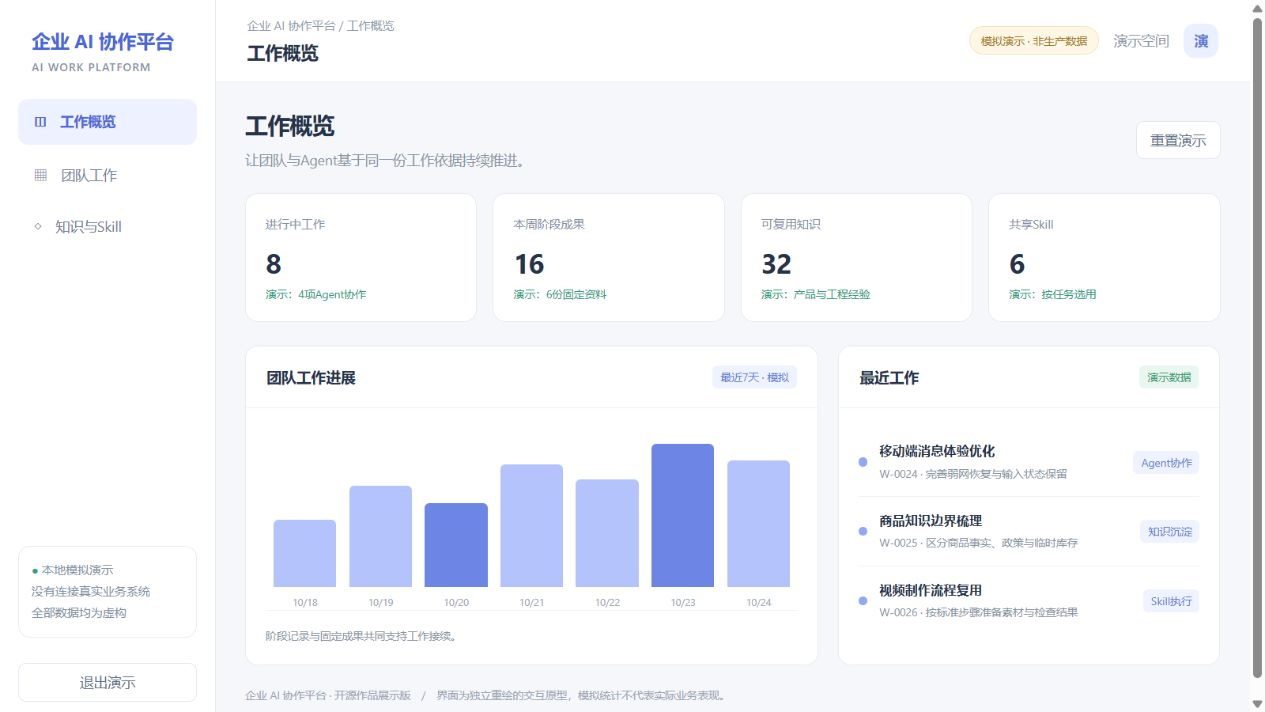
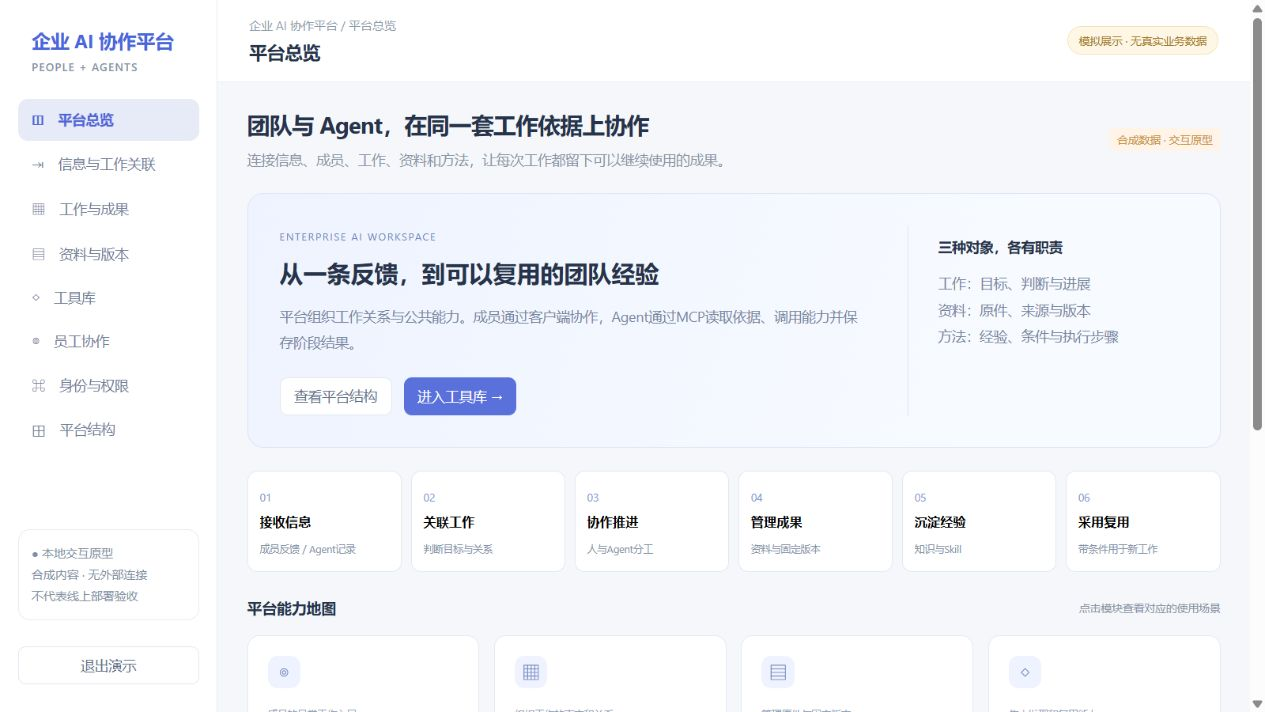
Expand platform architecture and interactive tool library showcase

diff --git a/demo/platform.js b/demo/platform.js
@@ -1,0 +1,44 @@
+// Standalone product prototype. All content below is synthetic; no backend calls.
+const $ = s => document.querySelector(s);
+const esc = s => String(s).replace(/[&<>"']/g, c => ({'&':'&amp;','<':'&lt;','>':'&gt;','"':'&quot;',"'":'&#39;'}[c]));
+const names = {overview:'平台总览',intake:'信息与工作关联',work:'工作与成果',files:'资料与版本',tools:'工具库',collaboration:'员工协作',permissions:'身份与权限',architecture:'平台结构'};
+const icons = ['◫','⇥','▦','▤','◇','◎','⌘','⊞'];
+let view='overview', category='全部', query='', chosen='knowledge', linked=false, role='成员', version=2;
+const adopted = new Set();
+const receipts=[];
+const modules=[
+ ['员工客户端','成员的日常工作入口','消息、通知、个人工作与资料入口；桌面、PWA及移动端相关源码。','collaboration','clients/employeeclient-desktop'],
+ ['工作与知识服务','组织工作的事实和关系','目标、阶段进展、判断、显式关联、固定成果、接续与采用。','work','modules/v8'],
+ ['资料存储服务','管理原件与固定版本','上传、读取、版本引用、授权定位、归档与生命周期。','files','modules/storage'],
+ ['工具与方法库','集中发现和复用能力','知识、HTML汇报、Skill、账号元信息、素材解析与硬件记录。','tools','modules/tools'],
+ ['身份权限服务','控制谁可以做什么','成员身份、项目资格、授权范围、凭据交付和权限撤销。','permissions','modules/hub/apps/hufu'],
+ ['MCP接入层','让Agent使用平台能力','目录发现、帮助契约、成员身份传递、调用与回执查询。','architecture','modules/hub/apps/mcp'],
+ ['共享执行器','持续任务和异常接续','任务租约、有限重试、执行结果和事件投递；独立核对状态。','architecture','modules/worker/apps/worker'],
+ ['扩展资源与生成适配','按需连接外部能力','云资源、图像/视频、画廊和音频等接口；可用性需逐项验证。','architecture','modules/tools/src']
+];
+const tools=[
+ {id:'knowledge',type:'知识',name:'弱网场景下的输入与恢复规则',summary:'将交互反馈整理成带条件的产品知识，供新任务读取和判断是否适用。',version:'v2',path:'modules/tools/components/accounts/knowledge-library.mjs',input:'问题场景、正文、来源、适用条件、限制、当前revision',output:'知识条目、固定版本、来源和修订状态',scope:'移动端消息体验；不适用于所有表单与离线业务。',steps:['识别用户操作与中断位置','保留已输入内容，区分发送中与失败','验证重连后状态，不自动重复发送'],kind:'采用知识'},
+ {id:'skill',type:'Skill',name:'软件开发与验收工作流',summary:'把稳定的方法组织为可复用步骤，明确输入、检查点、异常与结果。',version:'v1',path:'skills/develop-software/SKILL.md',input:'真实目标、已有代码、允许范围和验收条件',output:'代码修改、相关验证及实际完成边界',scope:'软件开发类任务；导入包不等于安装，更不等于已经执行。',steps:['读取需求与现有实现','确定改动和验收范围','实现并检查异常路径','执行相关验证','区分源码、构建与真实环境验收'],kind:'选用方法'},
+ {id:'review',type:'Skill',name:'阶段回顾与知识提炼',summary:'从阶段讨论与结果中提取有条件的经验，避免每次重复纠正同类问题。',version:'v1',path:'skills/context-to-knowledge/SKILL.md',input:'阶段记录、原始反馈、修改结果和证据范围',output:'知识候选、适用条件与仍需验证的问题',scope:'不是自动把所有讨论结论写成通用规则。',steps:['区分用户要求、实现结果和未验证推断','识别可跨任务复用的经验','补充来源与限制','人工或Agent判断后保存'],kind:'选用方法'},
+ {id:'html',type:'HTML汇报',name:'移动端体验验收汇报',summary:'集中保存可阅读的阶段报告，并与工作和固定成果关联。',version:'v3',path:'modules/tools/components/accounts/html-library.mjs',input:'报告标题、HTML正文、所属项目与来源',output:'报告条目、固定原件与保存回执',scope:'原型只预览元信息，不执行导入的HTML。',steps:['确认报告对应的工作阶段','保留固定版本','将成果引用追加到工作'],kind:'预览记录'},
+ {id:'account',type:'账号资料',name:'测试服务账号元信息',summary:'供Agent定位服务用途与负责人；不在目录中返回密码、Cookie或受保护备注。',version:'v1',path:'modules/tools/components/accounts',input:'当前成员身份与允许查询的账号范围',output:'服务名称、用途、负责人等非敏感元信息',scope:'敏感取用仍需对应授权；演示中没有真实账号。',steps:['先确认用途与范围','只读取非敏感资料','凭据交付走独立授权通道'],kind:'预览记录'},
+ {id:'assets',type:'素材解析',name:'视频制作素材清单',summary:'对素材来源和选中项进行整理，供后续制作工作选用。',version:'v1',path:'modules/tools/connectors/workspace-tools-mcp',input:'素材来源、选中项及明确用途',output:'素材元信息与候选清单，不是本机下载成功证明',scope:'本页不下载素材；来源授权与实际下载由使用方核对。',steps:['解析来源与候选项','确认选中内容','下载后核对实际文件'],kind:'预览记录'},
+ {id:'hardware',type:'硬件记录',name:'测试设备配置参考',summary:'保存设备和采购相关记录，便于团队按场景查找。',version:'v1',path:'modules/tools/components/accounts/hardware.mjs',input:'设备类型、使用场景与已有记录',output:'设备元信息与采购记录',scope:'记录接口不代表下单、付款或设备已交付。',steps:['按任务查看记录','核对配置适用性','真实采购独立确认'],kind:'预览记录'}
+];
+const pill=(s,c='')=>`<span class="tag ${c}">${esc(s)}</span>`;
+const button=(text,to)=>`<button class="btn" data-go="${to}">${text}</button>`;
+const head=(title,sub)=>`<div class="intro"><div><h1>${title}</h1><p>${sub}</p></div>${pill('合成数据 · 交互原型','orange')}</div>`;
+function flow(){return `<div class="process">${[['接收信息','成员反馈／Agent记录','intake'],['关联工作','判断目标与关系','work'],['协作推进','人与Agent分工','collaboration'],['管理成果','资料与固定版本','files'],['沉淀经验','知识与Skill','tools'],['采用复用','带条件用于新工作','tools']].map((x,i)=>`<button data-go="${x[2]}"><small>0${i+1}</small><strong>${x[0]}</strong><span>${x[1]}</span></button>`).join('')}</div>`;}
+function overview(){return head('团队与 Agent，在同一套工作依据上协作','连接信息、成员、工作、资料和方法，让每次工作都留下可以继续使用的成果。')+`<div class="hero"><div><span class="eyebrow">ENTERPRISE AI WORKSPACE</span><h2>从一条反馈，到可以复用的团队经验</h2><p>平台组织工作关系与公共能力。成员通过客户端协作，Agent通过MCP读取依据、调用能力并保存阶段结果。</p><div class="hero-actions">${button('查看平台结构','architecture')}${button('进入工具库 →','tools')}</div></div><div class="hero-note"><strong>三种对象，各有职责</strong><p>工作：目标、判断与进展<br>资料：原件、来源与版本<br>方法：经验、条件与执行步骤</p></div></div>`+flow()+`<div class="sectiontitle"><h2>平台能力地图</h2><p>点击模块查看对应的使用场景</p></div><div class="module-grid">${modules.map((m,i)=>`<button class="module-card" data-go="${m[3]}"><span class="module-icon">${['◎','▦','▤','◇','⌘','↗','↻','⊞'][i]}</span><small>${m[1]}</small><h2>${m[0]}</h2><p>${m[2]}</p><span class="module-link">了解这个模块 →</span></button>`).join('')}</div>`;}
+function intake(){return head('信息与工作的衔接','信息先保留来源与含义，再判断是否属于已有工作；不以主题相似代替业务关联。')+`<div class="split"><section class="card"><div class="cardhead"><h2>信息接收箱</h2>${pill('示例来源')}</div><div class="cardbody">${[['成员反馈','手机切回后，已输入的内容消失','成员通过客户端提交的体验问题'],['Agent阶段记录','已定位状态重置点，待验证重连路径','Agent主动提交的阶段摘要，不是全量对话自动捕获'],['资料引用','移动消息验收说明 v2','人工上传并选定的资料版本']].map((x,i)=>`<div class="record"><span class="source-label">${x[0]}</span><h2>${x[1]}</h2><p>${x[2]}</p>${i===0?`<button class="btn primary" id="link-info">${linked?'已关联到示例工作':'关联到示例工作'}</button>`:''}</div>`).join('')}</div></section><section class="card"><div class="cardhead"><h2>关联判断</h2>${pill('业务判断')}</div><div class="cardbody"><h3>移动端消息体验优化</h3><p>相同目标：中断后保留输入并准确恢复状态。成员反馈作为问题依据，Agent记录作为阶段进展，验收说明作为固定资料。</p><div class="hint">${linked?'反馈已在本页关联，可到“工作与成果”查看；没有写入真实服务。':'等待选择：已有工作追加记录，独立目标另建工作。'}</div><h3>进入之后怎样整理</h3><ol><li>区分反馈、判断、附件和待办。</li><li>明确来源完整程度及未知信息。</li><li>关联具体工作与固定资料。</li><li>保留下一步和需要核实的条件。</li></ol>${button('查看工作与成果 →','work')}</div></section></div>`;}
+function work(){return head('工作、过程与阶段成果','把同一目标的多轮推进组织起来，而不是把一次会话等同于一个项目。')+`<div class="board">${[['待判断','商品知识边界梳理','区分商品事实、政策与临时库存'],['推进中','移动端消息体验优化','验证弱网与前后台恢复，保留用户输入'],['已形成成果','视频制作方法整理','沉淀素材准备、处理和结果检查步骤']].map(x=>`<section class="column"><h2>${x[0]}</h2><div class="task"><strong>${x[1]}</strong><p>${x[2]}</p><footer><span>示例工作</span><span>成员＋Agent</span></footer></div></section>`).join('')}</div><section class="card detailbox"><div class="cardhead"><h2>移动端消息体验优化 · 接续视图</h2>${pill('示例阶段')}</div><div class="work-detail"><div><h3>目标与边界</h3><p>切回应用后保留用户输入；发送状态需要核对结果，不因连接恢复直接标为已发送。</p><h3>最新进展</h3><p>已整理状态变更方案，待按验收条件检查。${linked?'已关联接收箱中的成员反馈。':'接收箱中还有一条反馈待关联。'}</p><h3>未完成事项</h3><p>核对断网、重连与多次切回；保留尚未验证的情况。</p></div><div><h3>采用与固定成果</h3><p>验收说明 v1 已作为阶段依据；文件有 v2 不代表旧采用自动升级。</p><h3>本页已选用的方法</h3><p>${adopted.size?[...adopted].map(id=>esc(tools.find(x=>x.id===id).name)).join('<br>'):'尚未选用，前往工具库读取条件后采用。'}</p>${button('查找知识和方法 →','tools')}</div></div></section>`;}
+function files(){return head('资料、版本与业务采用','原件保存、版本变更和业务采用分别成立，查到新文件不等于它已成为当前工作依据。')+`<section class="card"><div class="cardhead"><h2>移动消息验收说明</h2>${pill('合成文件')}</div><div class="work-detail"><div><h3>查看版本</h3><div class="filters"><button class="btn" data-version="1">v1 · 阶段采用</button><button class="btn" data-version="2">v2 · 最新修订</button></div><h3>当前预览：v${version}</h3><p>${version===1?'验证输入保留、失败提示与人工重试。':'在v1基础上增加前后台切换、断网恢复和重复发送检查。'}</p><div class="hint">工作当前采用 v1；选择预览 v2 只改变本页视图，不修改采用关系。</div></div><div><h3>原件与引用</h3><p>所属：示例团队项目<br>来源：成员整理的验收说明<br>固定引用：demo-material / version-${version}<br>权限：按当前成员与项目范围读取</p><h3>生命周期</h3><p>保存、分类、归档和物理清理分别处理；本原型不会上传、下载或删除文件。</p></div></div></section>`;}
+function toolLibrary(){const list=tools.filter(x=>(category==='全部'||category===x.type)&&(x.name+x.summary+x.type).toLowerCase().includes(query.toLowerCase()));if(list.length&&!list.some(x=>x.id===chosen))chosen=list[0].id;const selected=tools.find(x=>x.id===chosen);return head('工具库 · 团队能力与方法的入口','先发现能力，再读契约、来源和适用条件；知识可采用，Skill可选用，执行仍需对应权限。')+`<div class="library-toolbar"><input class="search library-search" id="tool-query" aria-label="搜索工具库" placeholder="搜索知识、Skill、报告或素材" value="${esc(query)}"><label>模块 <select id="tool-category" aria-label="工具库模块">${['全部','知识','Skill','HTML汇报','账号资料','素材解析','硬件记录'].map(x=>`<option ${category===x?'selected':''}>${x}</option>`).join('')}</select></label><span>${list.length} 个合成示例</span></div><div class="library-layout"><div class="tool-grid" id="tool-results">${list.length?list.map(x=>`<button class="tool-card ${chosen===x.id?'selected':''}" data-tool="${x.id}"><div>${pill(x.type)}<span class="tool-version">${x.version}</span></div><h2>${x.name}</h2><p>${x.summary}</p><small>${adopted.has(x.id)?'✓ 已在本页选用':'查看来源、条件与输入输出 →'}</small></button>`).join(''):'<div class="card cardbody"><h2>没有匹配的示例</h2><p>试试“恢复”“工作流”或切换模块。</p></div>'}</div><aside class="card tool-detail"><div class="cardhead"><h2>条目详情</h2>${pill(selected.version)}</div><div class="cardbody">${pill(selected.type)}<h3>${selected.name}</h3><p>${selected.summary}</p><h4>适用条件与限制</h4><p>${selected.scope}</p><h4>输入 → 输出</h4><p>${selected.input}<br><span class="arrow">↓</span><br>${selected.output}</p><h4>方法／检查点</h4><ol>${selected.steps.map(s=>`<li>${s}</li>`).join('')}</ol><h4>源码对应</h4><code class="source-path">${selected.path}</code><h4>关联到示例工作</h4><p>移动端消息体验优化</p><button class="btn primary" id="adopt-tool">${selected.kind==='预览记录'?'生成示例回执':adopted.has(selected.id)?'已在本页选用':selected.kind+'到示例工作'}</button><div class="hint">${receipts.at(-1)||'这里只演示采用与回执，不安装Skill、不调用模型或外部API。'}</div></div></aside></div>`;}
+function collaboration(){return head('员工协作与工作入口','成员在客户端接收消息、查看自己的工作与资料；Agent使用MCP参与对应工作。')+`<div class="split"><section class="card"><div class="cardhead"><h2>团队通知</h2>${pill('不发送真实消息')}</div><div class="cardbody">${[['工作进展','消息体验方案已形成新阶段记录'],['资料变更','验收说明更新到v2，请判断是否采用'],['知识更新','恢复规则补充了适用范围']].map(x=>`<div class="record"><span class="source-label">${x[0]}</span><h3>${x[1]}</h3><p>示例团队空间 · 今日</p></div>`).join('')}</div></section><section class="card"><div class="cardhead"><h2>成员与Agent分工</h2></div><div class="cardbody"><h3>成员</h3><p>提出业务目标、判断优先级、补充反馈、选择采用与验收结果。</p><h3>Agent</h3><p>在授权范围内读取资料、调用工具、推进任务、保存阶段进展与待核实项。</p><h3>客户端与MCP</h3><p>是不同交互入口；共享可访问的业务依据，各自仍有消息、权限和执行边界。</p>${button('查看身份与权限 →','permissions')}</div></section></div>`;}
+function permissions(){return head('身份、项目与执行范围','可发现工具、可读取资料、可执行操作，是三个不同的判断。')+`<section class="card"><div class="cardhead"><h2>权限场景预览</h2>${pill('只切换合成角色')}</div><div class="cardbody"><label>查看角色 <select id="demo-role" aria-label="演示角色"><option ${role==='成员'?'selected':''}>成员</option><option ${role==='主管'?'selected':''}>主管</option></select></label><table><thead><tr><th>操作</th><th>范围</th><th>示例状态</th></tr></thead><tbody>${[['读取团队工作','当前可读项目','允许'],['查看账号密码','目录不返回敏感值','不开放'],['修改其他成员授权','需对应管理权限',role==='主管'?'需核对授权范围':'拒绝'],['调用外部供应商','需实际资源与用途授权','待独立授权']].map(x=>`<tr>${x.map(v=>`<td>${v}</td>`).join('')}</tr>`).join('')}</tbody></table><div class="hint">原型不签发凭据，也不修改任何权限。真实系统仍需服务端核对当前身份和操作范围。</div></div></section>`;}
+function architecture(){return head('平台整体结构','成员入口、Agent入口、业务事实与公共基础设施相互配合，独立产品按需选择接入。')+`<section class="card cardbody"><div class="architecture-entry"><span>成员 · 员工客户端</span><span>AI Agent · MCP接入</span></div><div class="architecture-center"><strong>企业工作与知识平台</strong><p>项目与工作关系 · 阶段进展 · 固定成果 · 采用与复用</p></div>${flow()}<div class="module-grid">${modules.map(m=>`<div class="module-card"><h2>${m[0]}</h2><p>${m[2]}</p><code class="source-path">${m[4]}</code></div>`).join('')}</div><div class="hint">源码快照中的模块接线、独立连接器、候选改动与线上状态分开核对。这个结构图说明职责，不证明全部部署已连通。</div></section>`;}
+const pages={overview,intake,work,files,tools:toolLibrary,collaboration,permissions,architecture};
+function render(){document.title=names[view]+' · 企业 AI 协作平台（模拟）';$('#root').innerHTML=`<div class="app"><aside class="side"><div class="brand">企业 AI 协作平台<small>PEOPLE + AGENTS</small></div><nav class="nav">${Object.keys(names).map((v,i)=>`<button data-go="${v}" class="${view===v?'active':''}">${icons[i]}　${names[v]}</button>`).join('')}</nav><div class="sidebar-note">● 本地交互原型<br>合成内容 · 无外部连接<br>不代表线上部署验收</div><button class="btn" id="logout">退出演示</button></aside><main class="main"><header class="top"><div><div class="crumb">企业 AI 协作平台 / ${names[view]}</div><strong>${names[view]}</strong></div><span class="badge">模拟展示 · 无真实业务数据</span></header><div class="content">${pages[view]()}<div class="footer">独立重绘原型 · 合成资料、成员与工作 · 不调用生产服务或执行真实任务</div><div id="live-status" role="status" class="sr-only"></div></div></main></div>`;bind();}
+function bind(){document.querySelectorAll('[data-go]').forEach(b=>b.onclick=()=>{view=b.dataset.go;render();window.scrollTo(0,0);});if($('#link-info'))$('#link-info').onclick=()=>{linked=true;render();};document.querySelectorAll('[data-version]').forEach(b=>b.onclick=()=>{version=Number(b.dataset.version);render();});document.querySelectorAll('[data-tool]').forEach(b=>b.onclick=()=>{chosen=b.dataset.tool;render();});if($('#tool-category'))$('#tool-category').onchange=e=>{category=e.target.value;render();};if($('#tool-query'))$('#tool-query').oninput=e=>{const pos=e.target.selectionStart;query=e.target.value;render();$('#tool-query').focus();$('#tool-query').setSelectionRange(pos,pos);};if($('#adopt-tool'))$('#adopt-tool').onclick=()=>{const t=tools.find(x=>x.id===chosen);if(t.kind!=='预览记录')adopted.add(t.id);receipts.push(`${esc(t.name)} ${esc(t.version)}：${t.kind==='预览记录'?'已生成本页示例回执':'已在本页关联示例工作'}。未执行真实调用。`);render();};if($('#demo-role'))$('#demo-role').onchange=e=>{role=e.target.value;render();};$('#logout').onclick=()=>{sessionStorage.removeItem('demo-hub');login();};}
+function login(){document.title='企业 AI 协作平台 · 模拟登录';$('#root').innerHTML=`<section class="login"><div class="login-art"><div class="brand">企业 AI 协作平台</div><h1>把团队工作，<br>连接成可复用的经验。</h1><p>信息 · 工作 · 资料 · 知识 · 工具 · Skill</p></div><div class="login-form"><form id="login"><span class="badge">独立交互原型 · 合成数据</span><h1>进入平台展示</h1><p>演示登录只切换浏览器状态。</p><label for="user">演示账号</label><input id="user" value="demo"><label for="password">演示口令</label><input id="password" type="password" value="demo-only"><button class="btn primary">登录演示</button><p class="notice">demo / demo-only<br>不连接真实身份、模型、文件或公司服务。</p><p id="error" class="error" role="alert"></p></form></div></section>`;$('#login').onsubmit=e=>{e.preventDefault();if($('#user').value==='demo'&&$('#password').value==='demo-only'){sessionStorage.setItem('demo-hub','yes');render();}else $('#error').textContent='请输入演示账号 demo 与口令 demo-only。';};}
+if(sessionStorage.getItem('demo-hub'))render();else login();

diff --git a/demo/platform.css b/demo/platform.css
@@ -1,0 +1,1 @@
+.side{width:220px;position:sticky;top:0;height:100vh}.nav{gap:3px}.nav button{padding:11px 14px}.hero{display:grid;grid-template-columns:2.1fr 1fr;gap:40px;padding:32px;border:1px solid #dce5f6;background:linear-gradient(110deg,#eef3ff,#f7faff 75%);border-radius:16px;margin-bottom:23px}.eyebrow{color:#6e87bd;font-size:10px;letter-spacing:1.5px}.hero h2{font-size:24px;line-height:1.5;margin:12px 0}.hero p{color:#77869f;line-height:1.9;max-width:660px}.hero-note{border-left:1px solid #dbe3f2;padding:12px 0 12px 30px}.hero-note strong{display:block;margin-bottom:14px}.hero-actions{display:flex;gap:12px;margin-top:22px}.hero-actions .btn:last-child{background:#5a71dc;color:white;border:0}.process{display:grid;grid-template-columns:repeat(6,1fr);gap:9px;margin:0 0 27px}.process button{background:white;border:1px solid #e2e8f3;border-radius:10px;text-align:left;padding:15px 12px}.process small{font-size:11px;color:#8198cf}.process strong{display:block;font-size:13px;margin:8px 0}.process span{font-size:10px;color:#8593aa}.sectiontitle{display:flex;justify-content:space-between;align-items:center;margin-bottom:17px}.sectiontitle p{font-size:11px}.module-grid{display:grid;grid-template-columns:repeat(4,minmax(0,1fr));gap:15px}.module-card{background:white;border:1px solid #e3e9f3;border-radius:12px;text-align:left;padding:20px;min-width:0}.module-card h2{margin:12px 0;font-size:15px}.module-card p{font-size:12px;line-height:1.9}.module-icon{display:block;width:33px;height:33px;border-radius:10px;background:#eff3ff;color:#647bc5;text-align:center;line-height:33px;font-size:19px;margin-bottom:15px}.module-card small{font-size:10px;color:#91a0b7}.module-link{display:block;font-size:11px;color:#6780cb;margin-top:16px}.split{display:grid;grid-template-columns:1.3fr 1fr;gap:22px}.record{padding:19px 0;border-bottom:1px solid #edf0f6}.record:first-child{padding-top:0}.record:last-child{border:0}.record h2,.record h3{font-size:15px;margin:12px 0}.record p{font-size:12px}.record button{margin-top:14px}.source-label{color:#7087c5;background:#f0f4ff;font-size:10px;padding:4px 8px;border-radius:4px}h3{font-size:15px;margin:20px 0 12px}h4{font-size:12px;margin:22px 0 9px}li{font-size:12px;color:#78879e;line-height:1.9;margin-bottom:7px}ol{padding-left:19px}.hint{margin-top:20px;font-size:11px}.work-detail{display:grid;grid-template-columns:1fr 1fr;gap:40px;padding:24px}.work-detail p{font-size:12px}.filters{display:flex;gap:10px}.library-toolbar{display:flex;align-items:center;gap:17px;margin-bottom:21px}.library-search{margin:0;width:min(440px,50%);background:white}.library-toolbar label{font-size:12px;color:#8390a5}.library-toolbar>span{font-size:11px;color:#8c98ac;margin-left:auto}select{font:inherit;border:1px solid #e1e7f0;border-radius:7px;padding:9px;color:#5f718d;background:white;margin-left:8px}.library-layout{display:grid;grid-template-columns:minmax(0,1.7fr) minmax(280px,1fr);gap:20px;align-items:start}.tool-grid{display:grid;grid-template-columns:repeat(2,minmax(0,1fr));gap:15px}.tool-card{background:white;border:1px solid #e1e7f1;border-radius:12px;text-align:left;padding:22px;min-height:208px}.tool-card.selected{border-color:#8095df;box-shadow:0 0 0 2px #edf1ff}.tool-card h2{font-size:14px;line-height:1.7;margin:18px 0 10px}.tool-card p{font-size:12px;line-height:1.9}.tool-card small{display:block;color:#7990c2;margin-top:21px;font-size:10px}.tool-version{float:right;font-size:11px;color:#8a99b0}.tool-detail{position:sticky;top:18px}.tool-detail h3{line-height:1.8}.tool-detail p{font-size:12px;line-height:1.9}.tool-detail .primary{margin-top:16px;width:100%}.source-path{display:block;overflow-wrap:anywhere;font:10px/1.8 ui-monospace,monospace;color:#8c9ab0;background:#f7f9fd;padding:10px;border-radius:6px;margin-top:10px}.arrow{color:#96a5c0}.architecture-entry{display:flex;justify-content:center;gap:30px;margin:12px 0 20px}.architecture-entry span{background:#f1f4ff;color:#6b80b6;border:1px solid #e2e8f8;padding:14px 30px;border-radius:10px;font-size:12px}.architecture-center{background:#eaf0fd;border:1px solid #dbe5f8;border-radius:12px;text-align:center;padding:24px;margin-bottom:23px}.architecture-center strong{font-size:20px}.architecture-center p{font-size:12px;margin-top:10px}.architecture-center+.process{margin-bottom:23px}table{width:100%;border-collapse:collapse;margin-top:25px;font-size:12px;text-align:left}th{color:#8b97ac;font-weight:500;background:#f8faff}td,th{padding:18px 16px;border-bottom:1px solid #edf1f7}.sr-only{position:absolute;width:1px;height:1px;overflow:hidden;clip:rect(0,0,0,0)}button:focus-visible,input:focus-visible,select:focus-visible{outline:3px solid #b8c6f8;outline-offset:2px}@media(max-width:1150px){.module-grid{grid-template-columns:repeat(2,minmax(0,1fr))}.process{grid-template-columns:repeat(3,1fr)}.hero{grid-template-columns:1fr}.hero-note{display:none}.library-layout{grid-template-columns:1fr}.tool-detail{position:static}.side{width:190px}.brand{font-size:17px!important}.hero h2{font-size:21px}}@media(max-width:750px){.side{width:150px;padding:20px 10px}.nav button{font-size:11px;padding:12px 8px}.split,.work-detail{grid-template-columns:1fr}.hero{padding:20px}.module-grid,.tool-grid{grid-template-columns:1fr}.intro{align-items:start;gap:15px}.intro .tag{display:none}.right{display:none}.library-toolbar{flex-wrap:wrap}.library-search{width:100%}.process{grid-template-columns:repeat(2,1fr)}.architecture-entry{gap:8px}.architecture-entry span{padding:12px}.top .badge{font-size:9px}.brand{font-size:15px!important}.sidebar-note{display:none}h1{font-size:20px}.top{padding:0 18px}.content{padding:20px}.board{grid-template-columns:1fr}}

diff --git a/demo/index.html b/demo/index.html
@@ -1,1 +1,1 @@
-<!doctype html><html lang="zh-CN"><head><meta charset="UTF-8"><meta name="viewport" content="width=device-width, initial-scale=1"><title>本地模拟演示</title><link rel="stylesheet" href="style.css"></head><body data-kind="hub"><div id="root"></div><script src="app.js"></script></body></html>
+<!doctype html><html lang="zh-CN"><head><meta charset="UTF-8"><meta name="viewport" content="width=device-width, initial-scale=1"><title>企业 AI 协作平台 · 模拟展示</title><link rel="stylesheet" href="style.css"><link rel="stylesheet" href="platform.css"></head><body data-kind="hub"><div id="root"></div><script src="platform.js"></script></body></html>

diff --git a/docs/platform-architecture.md b/docs/platform-architecture.md
@@ -1,0 +1,90 @@
+# 平台结构、对象关系与源码导航
+
+这是面向团队与Agent的企业工作与知识平台。工作看板只是其中一个视图；平台同时提供成员入口、身份权限、资料原件、工作关系、工具与方法复用、执行接续和公共资源能力。
+
+本文按公开源码及随包手册解释职责。不同日期的手册、源码候选和独立快照不等于本次实时部署验证。
+
+## 整体结构
+
+```mermaid
+flowchart TB
+    Person["团队成员"] --> Client["员工客户端：桌面 / PWA / 移动"]
+    Agent["AI Agent"] --> MCP["MCP：发现、契约与受控调用"]
+    Client --> Identity["成员身份与项目授权"]
+    MCP --> Identity
+    Identity --> Work["工作与知识：目标、阶段、关系、采用"]
+    Identity --> Storage["资料存储：原件、固定版本、生命周期"]
+    Identity --> Library["工具库：知识、报告、Skill与资源元信息"]
+    Work --> Storage
+    Work --> Library
+    Library --> Reuse["判断条件后采用或选用"]
+    Reuse --> Work
+    MCP --> Worker["持续任务：租约、回执与异常恢复"]
+    Worker --> Work
+    MCP --> External["云资源及生成能力适配"]
+```
+
+箭头表示协作、调用或引用，不代表所有业务都经过单一网关，也不代表整个过程自动发生。独立产品可以只接入身份、存储或某项公共能力，保留自己的业务数据库与部署方式。
+
+## 信息接收：什么进来、怎样整理、支持什么行动
+
+| 输入 | 可核对的来源／入口 | 整理与关联 | 后续行动 |
+| --- | --- | --- | --- |
+| 业务目标、体验反馈和问题说明 | 成员提交、项目反馈入口、Agent主动保存 | 区分目标、反馈、判断和待核实项；判断属于已有工作还是独立目标 | 调整方案、确定下一步或建立独立工作 |
+| 阶段进展与判断依据 | 工作保存／阶段提交接口 | 追加阶段，保留边界、关系与未完成事项 | 跨成员、跨会话继续推进 |
+| 文档、报告和附件 | 资料上传、HTML汇报与显式引用 | 原件放资料服务，工作记录引用固定版本 | 阅读原文、核对依据、验收阶段成果 |
+| 可复用经验与方法 | 人或Agent整理后写入知识／导入Skill | 保留来源、条件、限制、修订身份和版本 | 检索、阅读、判断采用或选用 |
+| 素材等外部信息 | 对应解析适配器 | 保留来源与选中清单 | 按授权下载、处理与使用 |
+
+完整原文、摘要、可见片段和未知覆盖范围要区分。平台没有因此自动捕获全部客户端对话，也不宣称默认采集微信或所有业务系统的信息。
+
+相同主题不是相同工作。同一目标沿原工作追加，独立目标另建工作，直接关系需要依据。参见 [工作手册](../modules/hub/packages/handbook/current/v8-guide.md) 与 [关联判断方法](../skills/v8-work-link-judgment/SKILL.md)。
+
+## 平台对象与数据职责
+
+| 对象 | 管什么 | 与什么区分 |
+| --- | --- | --- |
+| 项目 | 业务范围、成员资格、可见性 | 项目可见性不自动赋予服务器权限 |
+| 工作 | 持续目标、状态、阶段、关系和责任 | 一次对话不必建立一个新项目 |
+| 阶段记录 | 实际进展、判断依据、纠正、待办和下一步 | 提交完成声明不证明外部部署或付款完成 |
+| 资料与固定版本 | 原件、来源、版本和读取资格 | 最新修订不自动替换原有采用 |
+| 采用关系 | 使用哪个固定成果、用途与依据 | 保存、检索、阅读、采用分别成立 |
+| 知识 | 条件、经验、来源、限制和证据状态 | 整理过不代表普遍适用或已验证 |
+| Skill | 方法包、输入输出、执行步骤和检查点 | 导入不等于安装或执行成功 |
+| 操作与回执 | 请求标识、身份、进度和确定结果 | 生成内容不等于外部动作已经发生 |
+
+## 各结构与源码
+
+| 结构 | 业务职责和主要实现 | 阅读入口 |
+| --- | --- | --- |
+| 员工客户端 | 消息、通知、个人工作、资料入口，桌面／PWA／Android相关实现；普通聊天状态独立于工作事件投递 | [桌面](../clients/employeeclient-desktop)、[移动](../clients/employeeclient-mobile)、[成员工作手册](../modules/hub/packages/handbook/current/member-work.md) |
+| 工作与知识服务 | 项目、阶段、上下文接续、显式关联和采用；接续包保留判断、边界、固定成果及下一步 | [V8独立快照](../modules/v8)、[共享基线服务](../modules/hub/apps/v8)、[工作手册](../modules/hub/packages/handbook/current/v8-guide.md) |
+| 资料存储 | 上传、授权定位、原件、版本及生命周期；分类、归档、主读位置和清理分别处理 | [存储快照](../modules/storage)、[资料服务](../modules/hub/apps/mem)、[存储手册](../modules/hub/packages/handbook/current/material-storage.md) |
+| 工具库与方法库 | 六类业务模块、知识维护、方法包、报告和资源元信息，网页与MCP两类使用入口 | [工具库详解](tools-library.md)、[业务模块](../modules/tools/components/accounts)、[Skill集合](../skills) |
+| 身份与授权 | 成员、项目资格、授权撤销、凭据交付；发现工具、读取资料和执行操作分别检查 | [身份服务](../modules/hub/apps/hufu)、[授权模块](../modules/hub/packages/authorization) |
+| MCP接入 | 能力发现、契约、身份传递及受控调用；不把目录可见当作任意执行权限 | [MCP服务](../modules/hub/apps/mcp)、[网关](../modules/hub/packages/mcp-edge/source)、[独立TOOLS连接器](../modules/tools/connectors/workspace-tools-mcp) |
+| 共享执行器 | 持续任务、租约、重试、结果与事件投递；未知结果按原请求接续核对 | [Worker快照](../modules/worker)、[实现与候选说明](../modules/hub/apps/worker) |
+| 工程／数据库／资源 | 项目范围内工程执行、结构查询、共享资源适配与恢复，不自动开放整机权限 | [工程手册](../modules/hub/packages/handbook/current/project-engineering.md)、[数据库权限](../modules/hub/packages/handbook/current/database-permissions.md)、[运行说明](../modules/hub/packages/handbook/current/operations.md) |
+| 团队运行 | 任务、提案、成员回执、积分及现金应付、项目反馈、成员工作事实与理解、手册和发布档案 | [任务与回执](../modules/hub/packages/handbook/current/task-points.md)、[项目反馈](../modules/hub/packages/handbook/current/project-feedback.md)、[总索引](../modules/hub/packages/handbook/current/function-index.md) |
+| 生成与其他扩展 | 云资源、视觉生成、画廊及音频等适配；供应商资格、预算、部署与最终结果分别验证 | [适配源码](../modules/tools/src)、[集成边界](../modules/hub/packages/handbook/current/integrations.md) |
+
+任务账目、应付记录和真实付款仍需区分。公开原型不展示真实人员、薪资、账号密码或业务记录。源码存在也不代表所有外部供应商已授权并可用。
+
+## 示例：怎样从一次反馈积累到下一次工作
+
+以移动端中断后输入丢失为说明场景（原型为合成内容）：
+
+1. 成员提交体验反馈，Agent提交定位与阶段进展，不假设自动捕获完整对话。
+2. 判断属于已有消息体验工作，追加来源和问题，避免重复开工作。
+3. 人与Agent推进方案，形成验收说明等固定成果。
+4. 整理“什么情况下保留输入、怎样核对发送状态”等带条件的知识，不概括成任何重连都重发。
+5. 选用稳定的开发／验收Skill。软件开发、视频制作等可以分别沉淀方法，不局限于UI。
+6. 后续任务检索、阅读限制并采用适用知识，保留采用版本；新修订不会自动改变原工作依据。
+
+价值在于减少重新寻找背景、重复纠正相同问题和重新拆解成熟流程。缺少统一记录时，不在这里虚构提效百分比。
+
+## 快照与验收
+
+hub和worker存在共享基线，独立v8、storage目录可能来自其他阶段，不能据目录齐备断言版本已统一装配，更不能将所有SQL直接运行到现有生产库。公开版已替换内部标识、清空历史业务索引。
+
+八页原型验证的是本地交互，不是全部服务线上连通。部署限制见 [启动说明](getting-started.md) 和 [源码范围](../SOURCE_SNAPSHOT.md)。

diff --git a/README.md b/README.md
@@ -2,9 +2,11 @@
 
 **Enterprise AI Workspace — a shared workspace for people, AI agents, knowledge and reusable skills.**
 
-面向团队与 AI Agent 的企业工作与知识平台，把分散的信息、工作过程、资料、阶段成果与可复用经验组织在同一套工作关系中。成员通过员工客户端协作，Agent 通过 MCP 接入，使后续工作能够找到已有依据、继续推进并复用方法。
+面向团队与 AI Agent 的企业工作与知识平台，覆盖成员协作、工作推进、资料与成果、知识沉淀、工具及 Skill 复用，并提供身份权限、Agent接入和持续执行等公共基础能力。它将分散的信息和多轮工作组织成可查找、可接续、可采用的业务依据，服务团队的日常运行与多个AI项目。
 
-[本地演示](#快速体验) · [架构与源码导航](docs/architecture.md) · [源码运行说明](docs/getting-started.md) · [发布范围](SOURCE_SNAPSHOT.md)
+成员通过员工客户端接收消息、查看工作与资料，Agent通过MCP使用当前授权能力；工作服务组织目标、阶段和关系，资料服务保存原件与版本，工具库集中管理知识、方法与能力入口。各模块共同支持协作，也允许独立业务产品按需接入。
+
+[本地演示](#快速体验) · [完整平台结构](docs/platform-architecture.md) · [工具库详解](docs/tools-library.md) · [源码运行说明](docs/getting-started.md) · [发布范围](SOURCE_SNAPSHOT.md)
 
 ![工作概览：独立重绘，全部为模拟数据](docs/images/overview.png)
 
@@ -23,10 +25,54 @@
 | 管理资料与成果 | 文件上传、版本引用、权限校验和存储生命周期 | 资料存储服务、身份权限服务 |
 | 复用知识与执行方法 | 经验整理、知识检索、工具登记和 Skill 选用 | V8、工具库、Skills |
 | 控制访问和执行边界 | 成员身份、项目权限、授权和执行回执 | 身份权限服务、MCP、Worker |
+| 支撑企业日常运行 | 成员工作清单、任务与提案、阶段回执、问题反馈和发布手册 | 任务、反馈、成员工作及手册模块 |
+| 按需接入公共能力 | 项目工程、数据库与云资源、素材及生成适配 | 工程／资源模块、工具连接器 |
 
 模块齐备不等于所有环节都自动闭环：经验是否适用、知识是否被采用、Skill执行结果是否合格，仍需相应判断与验证。
 
 ![团队工作：模拟阶段记录与成果关联](docs/images/workboard.png)
+
+## 一条完整的工作链路
+
+| 环节 | 具体处理什么 | 下一环节如何使用 |
+| --- | --- | --- |
+| 信息接收与整理 | 成员提交的需求、体验反馈，Agent主动保存的阶段记录，上传的文档与资料引用 | 区分来源、判断、待办和未知信息，判断已有工作或独立目标 |
+| 关联到工作 | 按实际目标关联项目、阶段、相关工作与依据，不只看主题相似 | 人与Agent基于同一目标继续推进 |
+| 协作推进 | 保存进展、判断、纠正、异常与下一步，成员通过客户端沟通，Agent使用受控能力 | 形成可以交接和继续处理的工作视图 |
+| 管理资料与成果 | 原件保存、固定版本、授权定位及阶段成果引用 | 后续读取同一份依据，区分最新修订和已采用版本 |
+| 沉淀知识与Skill | 经验保留来源、适用条件与限制；稳定方法组织为带步骤和检查点的方法包 | 后续任务先查找、阅读，再判断是否适用 |
+| 在新工作中采用 | 记录采用用途和固定成果，选用适用的方法继续执行 | 逐步减少重复背景整理、同类问题纠正和成熟流程的重新拆解 |
+
+软件开发、视频制作、产品体验迭代等可以分别沉淀经验与执行方法，并非只对UI生成或任务交接有价值。自动关联、知识有效性、采用结果及Skill执行成功仍需要对应判断与验证，不将模块存在直接写成全部自动闭环。
+
+## 工具库：不止是工具列表
+
+工具库提供网页与Agent两类入口，覆盖 **知识、HTML汇报、Skill、账号非敏感资料、素材解析与清单、硬件记录** 六类模块。
+
+知识条目保留正文、来源、适用范围、限制与修订信息；Skill描述可重复采用的工作方法；HTML汇报保留可阅读成果。账号、素材与硬件模块为授权范围内的工作提供资源信息，但不因目录可见就交付凭据、下载文件或完成采购。
+
+![工具库：搜索、分类与条目详情交互原型](docs/images/tool-library.png)
+
+原型可以搜索、按六类模块筛选、阅读条目版本与输入输出，并将知识／方法在本页关联到示例工作。真实业务模块及原网页源码均保留，见 [工具库的对象、接线与恢复机制](docs/tools-library.md)。
+
+工具库既可通过中枢MCP适配，也有独立stdio连接器。Agent可以通过接口发现能力、查询知识、保存报告或导入方法包，业务权限仍由实际服务检查。保存、核对、采用、安装和执行各自成立，不互相替代。
+
+## 各结构怎样配合
+
+| 结构 | 职责 | 源码入口 |
+| --- | --- | --- |
+| 员工客户端 | 成员消息、通知、工作与资料入口；桌面／PWA／移动相关实现 | [clients](clients) |
+| 工作与知识服务 | 项目、阶段、上下文、工作关系和采用 | [modules/v8](modules/v8) |
+| 资料存储服务 | 原件、固定版本、读取资格与生命周期 | [modules/storage](modules/storage) |
+| 工具与方法库 | 知识、报告、Skill及资源元信息，网页与Agent接入 | [modules/tools](modules/tools)、[skills](skills) |
+| 身份权限服务 | 成员身份、项目资格、授权撤销与受保护资源交付 | [hufu](modules/hub/apps/hufu)、[authorization](modules/hub/packages/authorization) |
+| MCP接入层 | 能力发现、契约、身份传递与受控调用 | [mcp](modules/hub/apps/mcp)、[mcp-edge](modules/hub/packages/mcp-edge) |
+| 共享执行器 | 持续任务、租约、重试、操作回执及事件投递 | [modules/worker](modules/worker) |
+| 企业运行与公共扩展 | 任务／提案、成员回执、问题反馈、手册与发布；工程、数据库及外部能力适配 | [功能索引](modules/hub/packages/handbook/current/function-index.md)、[平台详解](docs/platform-architecture.md) |
+
+![平台结构：入口、业务能力与公共基础设施](docs/images/platform-structure.png)
+
+完整对象关系、信息来源、各模块边界和源码定位见 [平台结构详解](docs/platform-architecture.md)。源码中的服务基线、较新独立快照、候选改动和实际部署状态分别说明；不将所有适配器都描述为当前已连通的线上服务。
 
 ## 可以重点阅读的设计
 
@@ -45,7 +91,7 @@ cd enterprise-ai-agent-workspace
 npm run demo
 ```
 
-打开 **http://127.0.0.1:4173**，使用 **demo / demo-only** 登录。[演示操作说明](docs/demo.md)
+打开 **http://127.0.0.1:4173**，使用 **demo / demo-only** 登录。八个页面覆盖总览、信息关联、工作与成果、资料与版本、工具库、员工协作、身份权限及平台结构。[演示操作说明](docs/demo.md)
 
 截图来自仓库中的独立交互原型，全部统计与业务数据均为模拟。原员工客户端前端和服务端源码在下方目录，不以此原型代替原系统。
 

diff --git a/docs/tools-library.md b/docs/tools-library.md
@@ -1,0 +1,40 @@
+# 工具库：知识、方法与能力的发现和复用
+
+工具库同时管理可阅读的知识与汇报、可选用的方法包，以及当前成员可读取的资源元信息。工作服务保存业务事实，资料服务保存原件，工具库提供内容维护与复用入口。
+
+![工具库原型：全部为合成条目](images/tool-library.png)
+
+## 六类模块
+
+| 模块 | 对象与能力 | 主要边界 | 源码 |
+| --- | --- | --- | --- |
+| 知识 | 经验、规则、来源、适用条件；列表、读取、保存与revision修订 | 保存不等于验证或采用 | [knowledge-library.mjs](../modules/tools/components/accounts/knowledge-library.mjs) |
+| HTML汇报 | 阶段报告、HTML原件、索引与读取 | 保存保真与业务采用分别核对 | [html-library.mjs](../modules/tools/components/accounts/html-library.mjs) |
+| Skill | 方法包、正文、附件与版本，读取／导入／版本维护 | 不自动安装或执行导入包 | [skill-library.mjs](../modules/tools/components/accounts/skill-library.mjs)、[包处理](../modules/tools/components/accounts/skill-package.mjs) |
+| 账号非敏感资料 | 服务用途、定位和当前成员可读的元信息 | 不向模型交付密码、Cookie或受保护备注 | [账号模块](../modules/tools/components/accounts) |
+| 素材解析与清单 | 来源、候选项和选中清单 | 清单不等于本机下载或文件合并完成 | [连接器说明](../modules/tools/connectors/workspace-tools-mcp/README.md) |
+| 硬件记录 | 设备、配置与采购相关记录 | 记录操作不等于下单、付款或交付 | [hardware.mjs](../modules/tools/components/accounts/hardware.mjs) |
+
+## 网页与MCP怎样连接
+
+已有 [知识库网页](../modules/tools/components/accounts/knowledge-library-web)、[Skill库网页](../modules/tools/components/accounts/skill-library-web)、[HTML库网页](../modules/tools/components/accounts/html-library-web)、[硬件网页](../modules/tools/components/accounts/hardware-web) 等源码。
+
+中枢适配层负责发现、身份传递和调用包装；业务服务仍维护内容、权限与版本。独立stdio连接器可让Agent通过HTTPS调用已开放能力，不依赖Computer Use或任务大厅进程。不同接入路径的候选、部署和验收状态分别核对，不能相互代替。
+
+## 知识与Skill如何复用
+
+知识需要正文、来源、适用范围、限制、证据状态、标签与修订信息。已有条目按原id和revision修订，不按标题猜测并不断新增副本。先检索候选，再读正文和限制，最后判断采用。
+
+当前有限筛选不能描述成全库语义RAG、后端分页或持久变化游标。Skill则明确方法步骤、输入输出与检查点，软件开发、视频制作、体验规则整理与阶段回顾可以分别沉淀；平台不因此保证所有方法无人值守执行。
+
+## 写入与恢复
+
+连接器使用当前成员身份，不共享管理员凭据；写入保持稳定请求标识。未知效果先查原回执或继续核对，不换标识重复新增。保存成功与读回核对分别表达，saved_verification_pending不等于完整核验成功。
+
+本机上传目录只控制本机读取范围，线上写入资格仍由当前身份决定；Skill包中的内容不是额外授权。详见 [独立连接器](../modules/tools/connectors/workspace-tools-mcp/README.md)。
+
+## 原型操作
+
+搜索“工作流”或“恢复”，按六类模块筛选；选择条目查看版本、来源、适用限制、输入输出、步骤和源码对应。采用知识／选用方法后，到“工作与成果”核对本页关联结果。其他记录仅生成示例回执。
+
+独立重绘原型不等于原线上界面。条目和状态均为合成数据，页面刷新后清空；不写真实知识、不安装Skill、不调用模型或读取真实账号。

diff --git a/modules/tools/components/SOURCE-DELIVERY.md b/modules/tools/components/SOURCE-DELIVERY.md
@@ -1,11 +1,11 @@
-# FF AI客服与闲鱼管理实际源码协作入口
+# 工具业务模块公开范围
 
-本目录由杰按用户明确的YYY接手授权，从FF服务器2026-10-21实际源码取回，供FF和YYY在既有工具团队工程内读取、修改、提交和Git合并。
+本目录保留工具业务服务、知识／HTML／Skill／硬件网页及相关MCP适配源码，用于理解成员网页入口与Agent接口如何共用业务能力。
 
-- ai-customer/：来自FF服务器/opt/xianyu-lab/source，闲鱼自动回复、AI回复、多账号与商品业务源码。
-- accounts/：来自FF服务器/opt/xianyu/current，当前工具集与账号管理Node源码；保留原工具团队范围。
-- SOURCE-MANIFEST.json：原路径逐文件摘要；未携带Git历史，因此本次提交是实际快照导入基线，不冒充FF原始提交历史。
+- `accounts/`：账号非敏感资料及工具库相关Node实现，包括知识、报告、方法包和硬件记录等业务模块。
+- `tools-central-mcp/`：中枢工具接入相关源码。
+- 原导出包含的第三方AI客服整包未并入本平台仓库；电商客服项目单独发布并保留原许可。
 
-使用现有Hufu /v2/engineering/execute，project_id=69197d56-41b0-4c8b-ac19-181f63e87c1f。read/write/commit对应本工作区；command可在项目身份下执行git diff、git branch、git merge等。合并权限沿resource.write，不存在另外的Git托管站账号。
+这是脱敏源码快照，不包含原始生产环境、凭据、业务数据库、运行日志或原Git历史。原生产部署入口没有随目录重组而自动适配，不能把源码导出视为已完成新环境部署。
 
-FF原生产文件没有覆盖或重启。现有core build/deploy仍是旧python兼容入口，不能把它当作本目录Node/闲鱼源码发布；本次交付是源码协作，生产发布按实际产品资源继续接线。成员数据、Cookie、环境密钥、数据库、依赖、日志不包含在本快照中。
+业务结构与各入口的关系见根目录README及 `docs/tools-library.md`。

diff --git a/docs/demo.md b/docs/demo.md
@@ -12,8 +12,17 @@ npm run demo
 
 这是独立重绘的交互原型，帮助理解产品流程。它与原始前端分别存放；登录只切换浏览器会话状态，页面不调用后台或模型。全部会话、订单、成员、任务及图表指标均为模拟，不作为业务成果。
 
-建议展示顺序：工作概览 → 团队工作 → 点击工作卡片 → 查看阶段记录、固定资料和接续依据 → 知识与Skill。这里的资料与Skill为静态示例，不会执行真实任务。
+八个页面：平台总览、信息与工作关联、工作与成果、资料与版本、工具库、员工协作、身份与权限、平台结构。
 
-重置演示清空本页模拟消息；刷新会清空内存中的交互记录，退出会移除本标签的演示登录状态。
+建议沿一条工作链展示：
+
+1. 总览查看平台能力地图和六步流程，点击模块进入对应页面。
+2. 在信息页将成员反馈关联到示例工作，再到工作页核对关联状态。
+3. 在资料页切换v1和v2，观察“查看最新版本”与“工作已采用版本”的区别。
+4. 在工具库搜索“恢复”或“工作流”，筛选知识、Skill等六类模块，阅读来源、条件、限制、输入输出与步骤。
+5. 采用知识或选用方法后，到工作页核对本页关联；其他模块只生成合成回执。
+6. 在员工协作、权限和结构页理解入口、职责与范围。角色切换只改变本页合成视图，不签发真实权限。
+
+刷新会清空内存中的关联和选用记录；退出会移除本标签的演示登录状态。知识与Skill不会写入真实服务，不会安装或执行方法包。
 
 页面采用浅色布局、侧栏导航、状态标签和内容卡片。演示不是原线上 UI 截图，不证明真实鉴权、LLM推理、消息收发或数据库迁移已经通过验收。

diff --git a/SOURCE_SNAPSHOT.md b/SOURCE_SNAPSHOT.md
@@ -8,4 +8,6 @@
 
 展示原型为本次新增，采用合成数据，与原客户端分别保存。截图只验证原型交互，不是原系统线上验收记录。
 
+2026-10-24展示补充：新增八页平台原型、工具库六模块及详情、信息关联、方法选用、资料版本和合成权限场景；补充平台结构与工具库源码导航。浏览器检查覆盖信息关联、知识／Skill筛选搜索、方法选用后在工作中显示、版本预览和角色场景。没有因此扩大原系统部署与线上验收范围。
+
 原员工客户端桌面目录前端：2026-10-24执行 `npm ci --ignore-scripts` 与 `npm run build` 通过，包含 Vue TypeScript 检查与 PWA 构建。构建仍提示主包体积及动态／静态混合导入，未在本次做拆包重构。移动端原生包与完整中枢服务尚未构建及端到端验收。

diff --git a/docs/getting-started.md b/docs/getting-started.md
@@ -24,6 +24,6 @@ npm run build
 
 ## 本次检查
 
-- 独立展示：登录、工作概览、工作详情已在浏览器核对；全部为模拟数据。
+- 独立展示：八页平台导航、信息关联、工具库分类与搜索、方法选用及工作回显、固定版本预览和合成角色场景已在浏览器核对；全部为模拟数据。
 - 原始员工客户端前端：构建结果见 [源码快照说明](../SOURCE_SNAPSHOT.md)。
 - 未执行生产登录、生产数据库迁移、真实Agent工具调用、手机推送或线上端到端验收。

diff --git a/docs/architecture.md b/docs/architecture.md
@@ -1,5 +1,7 @@
 # 产品链路与代码导航
 
+完整结构、信息接收方式、对象关系和各模块源码见 [平台架构详解](platform-architecture.md)，工具库六模块与使用路径见 [工具库详解](tools-library.md)。本页保留简短导航。
+
 ## 工作链路
 
 1. 成员或Agent经员工客户端、MCP等入口提交需求、反馈、阶段记录和资料引用。
